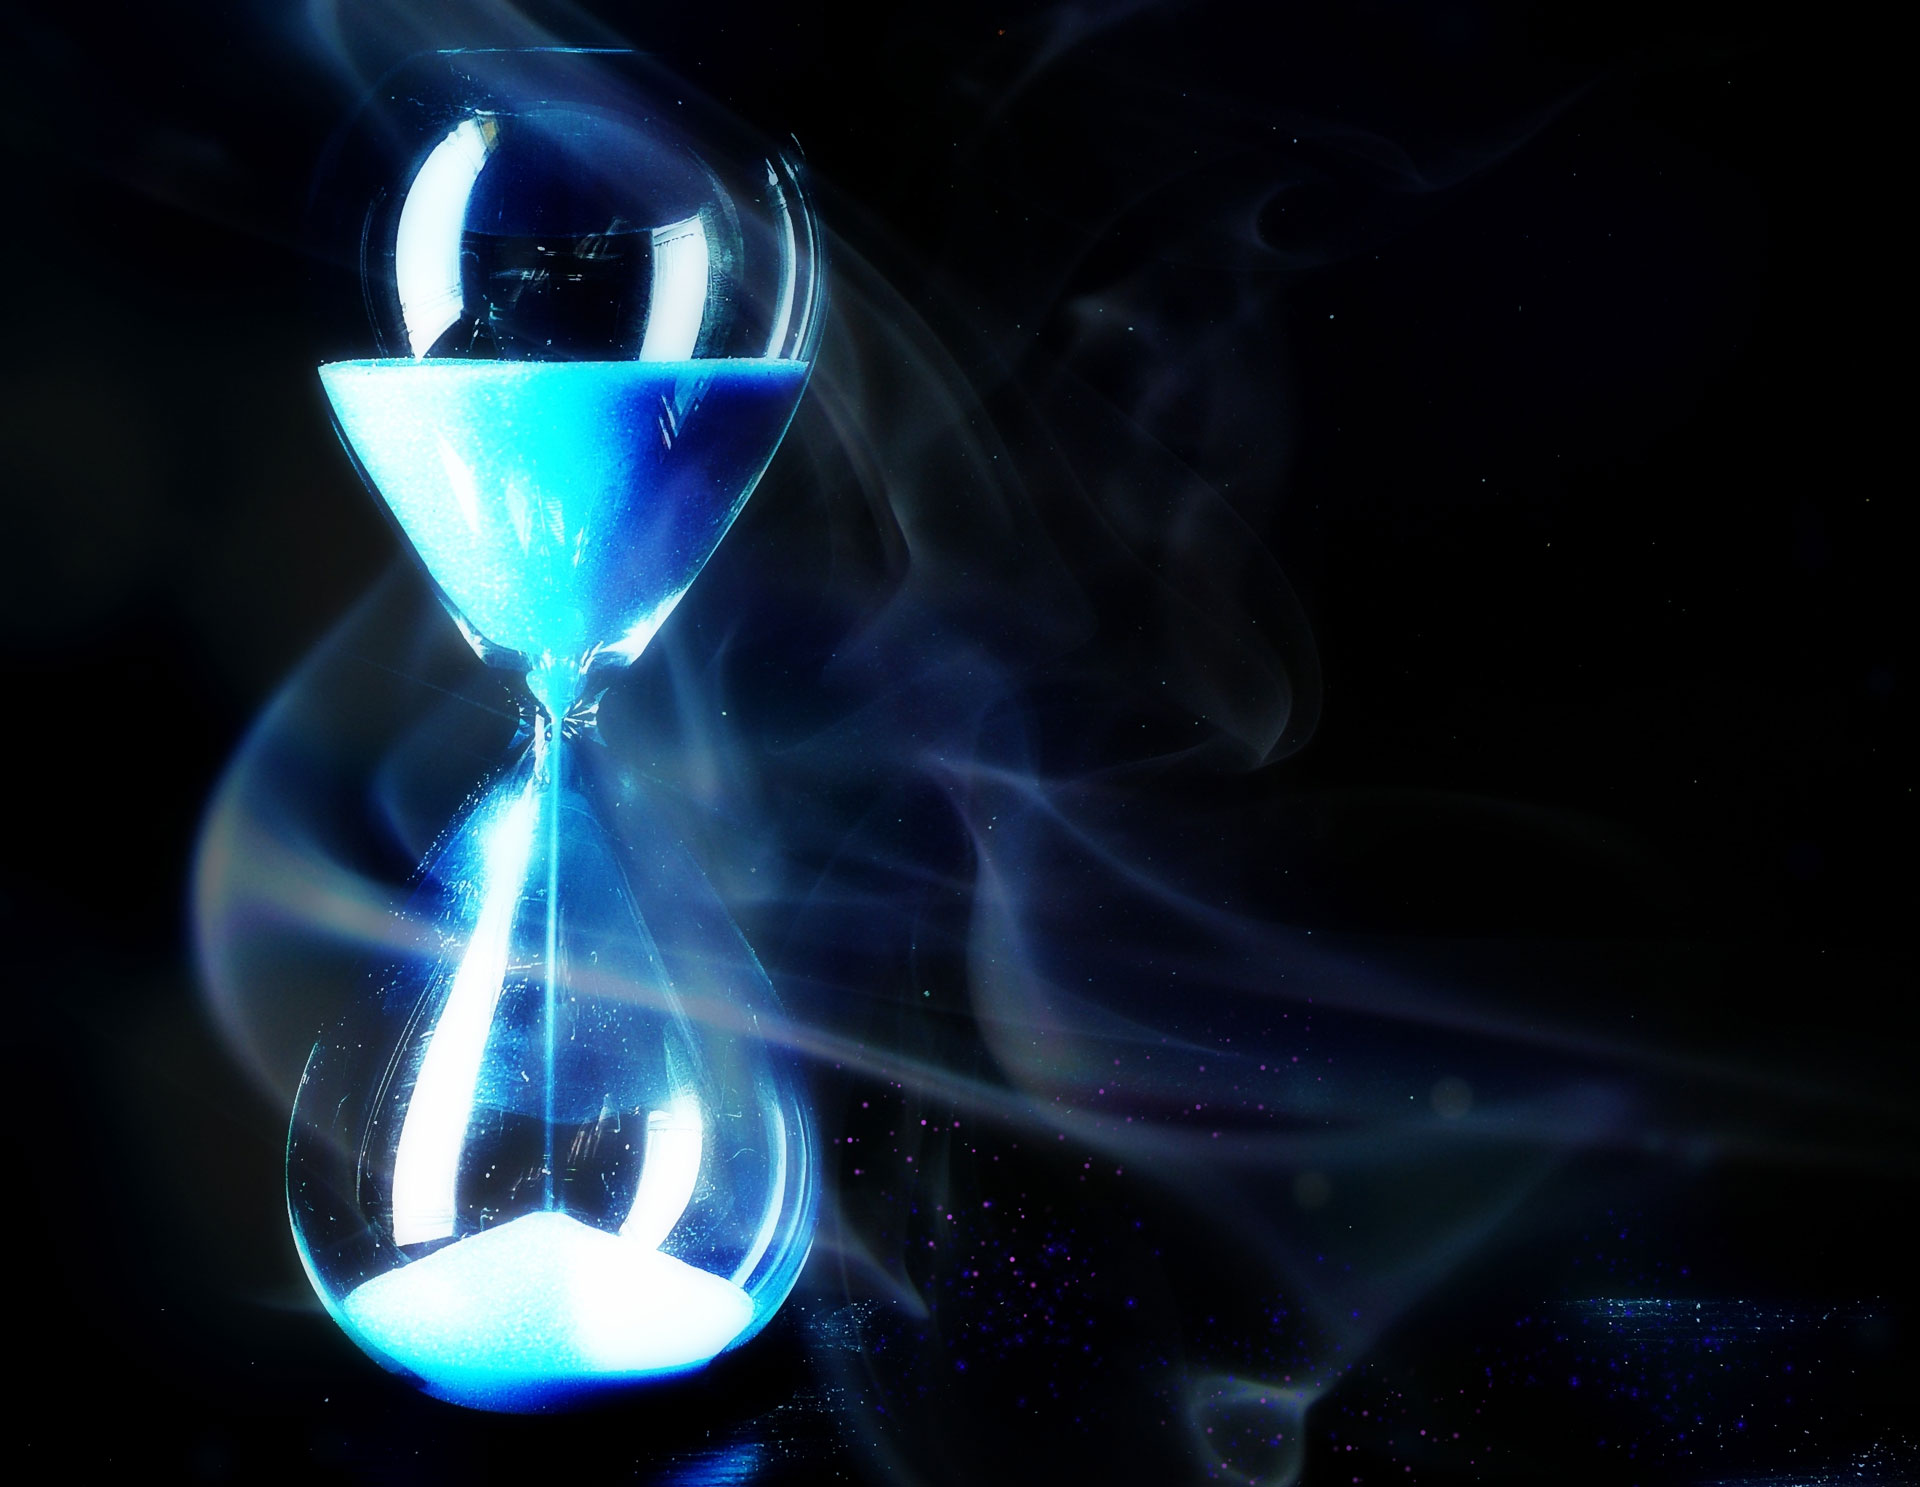
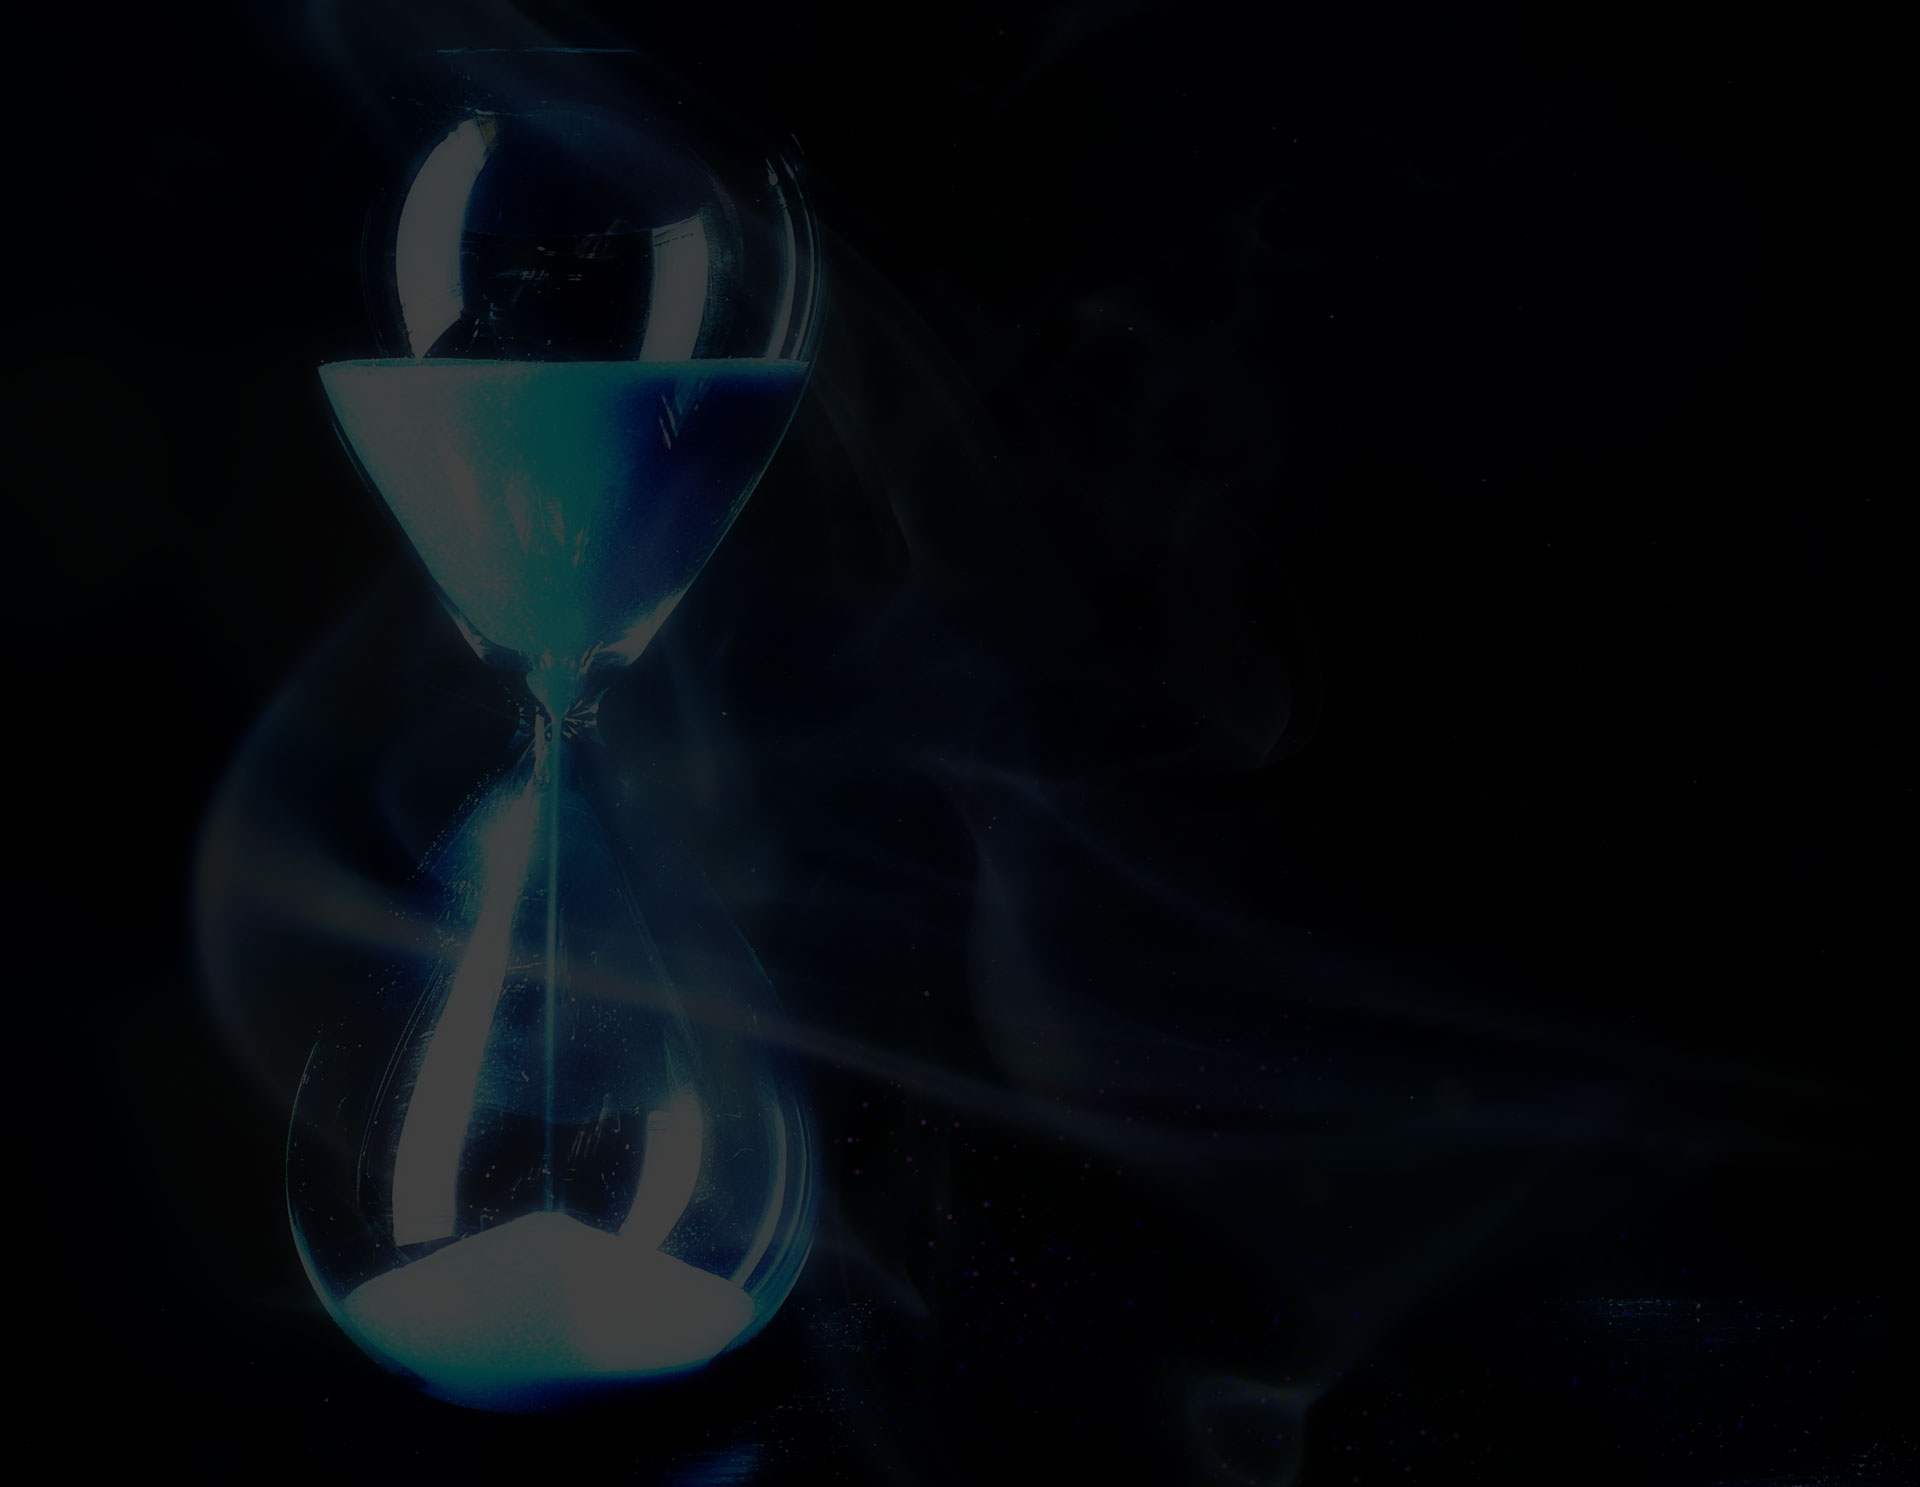
pre-tint background image because Edge and IE don't support background-blend-mode

diff --git a/public/css/timer.css b/public/css/timer.css
@@ -1,6 +1,4 @@
 body {
-  background-color: rgba(0, 0, 0, 0.75);
-  background-blend-mode: multiply;
   background-image: url("../img/background2.jpg");
   background-size: cover;
   background-position: left bottom;
@@ -34,8 +32,6 @@ button {
     outline: none; }
 
 body {
-  background-color: rgba(0, 0, 0, 0.75);
-  background-blend-mode: multiply;
   background-image: url("../img/background2.jpg");
   background-size: cover;
   background-position: left bottom;
@@ -96,8 +92,6 @@ button {
       font-size: 1.5vh; } }
 
 body {
-  background-color: rgba(0, 0, 0, 0.75);
-  background-blend-mode: multiply;
   background-image: url("../img/background2.jpg");
   background-size: cover;
   background-position: left bottom;
@@ -196,8 +190,6 @@ button {
   user-select: none; }
 
 body {
-  background-color: rgba(0, 0, 0, 0.75);
-  background-blend-mode: multiply;
   background-image: url("../img/background2.jpg");
   background-size: cover;
   background-position: left bottom;

diff --git a/public/css/index.css b/public/css/index.css
@@ -1,6 +1,4 @@
 body {
-  background-color: rgba(0, 0, 0, 0.75);
-  background-blend-mode: multiply;
   background-image: url("../img/background2.jpg");
   background-size: cover;
   background-position: left bottom;
@@ -34,8 +32,6 @@ button {
     outline: none; }
 
 body {
-  background-color: rgba(0, 0, 0, 0.75);
-  background-blend-mode: multiply;
   background-image: url("../img/background2.jpg");
   background-size: cover;
   background-position: left bottom;

diff --git a/stylesheets/partials/_common.sass b/stylesheets/partials/_common.sass
@@ -21,8 +21,6 @@ $button-inactive-alpha: 0.15
   justify-content: $value
 
 body 
-  background-color: rgba(0,0,0,0.75)
-  background-blend-mode: multiply
   background-image: url("../img/background2.jpg")
   background-size: cover
   background-position: left bottom

diff --git a/public/css/timer404.css b/public/css/timer404.css
@@ -1,6 +1,4 @@
 body {
-  background-color: rgba(0, 0, 0, 0.75);
-  background-blend-mode: multiply;
   background-image: url("../img/background2.jpg");
   background-size: cover;
   background-position: left bottom;
